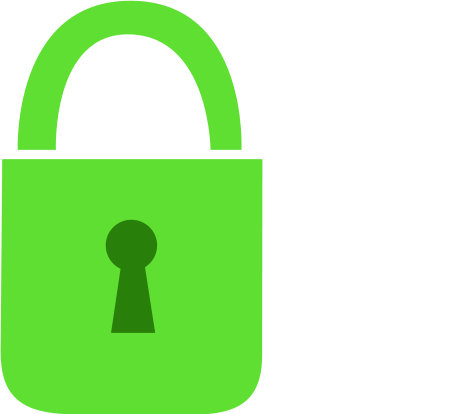
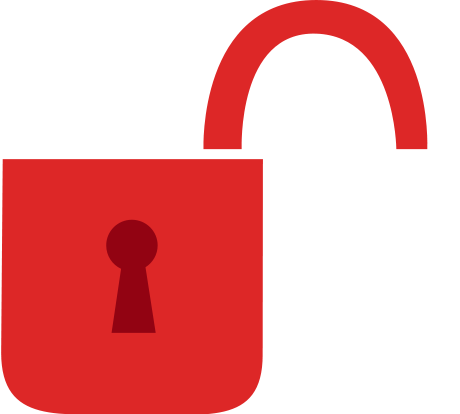
Add backend logic to smart lock

diff --git a/lock/src/main/java/view/StatusView.java b/lock/src/main/java/view/StatusView.java
@@ -3,6 +3,8 @@ package view;
 import model.Lock;
 
 import javax.swing.*;
+import java.awt.event.MouseEvent;
+import java.awt.event.MouseListener;
 import java.beans.PropertyChangeEvent;
 import java.beans.PropertyChangeListener;
 import java.net.URL;
@@ -31,31 +33,51 @@ public class StatusView extends JFrame implements PropertyChangeListener {
     }
 
     private void buildGUI() {
+        label = new JLabel();
+
         createLabel();
+
+        label.addMouseListener(new MouseListener() {
+            @Override
+            public void mouseClicked(MouseEvent e) {
+                lock.toggle();
+            }
+
+            @Override
+            public void mousePressed(MouseEvent e) { }
+
+            @Override
+            public void mouseReleased(MouseEvent e) { }
+
+            @Override
+            public void mouseEntered(MouseEvent e) { }
+
+            @Override
+            public void mouseExited(MouseEvent e) { }
+        });
+
+        add(label);
         pack();
     }
 
     private void update() {
-        remove(label);
         createLabel();
     }
 
     private void createLabel() {
         if (lock.isLocked()) {
             if (lockedImage != null) {
-                label = new JLabel(new ImageIcon(lockedImage));
+                label.setIcon(new ImageIcon(lockedImage));
             } else {
-                label = new JLabel("Locked");
+                label.setText("Locked");
             }
         } else {
             if (unlockedImage != null) {
-                label = new JLabel(new ImageIcon(unlockedImage));
+                label.setIcon(new ImageIcon(unlockedImage));
             } else {
-                label = new JLabel("Unlocked");
+                label.setText("Unlocked");
             }
         }
-
-        add(label);
     }
 
     @Override

diff --git a/lock/src/main/java/lock/LockApplication.java b/lock/src/main/java/lock/LockApplication.java
@@ -1,11 +1,18 @@
 package lock;
 
 import model.Lock;
+import tcp.Server;
 import view.StatusView;
+
+import java.io.IOException;
+import java.net.Socket;
+import java.net.UnknownHostException;
 
 public class LockApplication {
 
-    public final int PORT = 9090;
+    public static final int PORT = 9090;
+
+    private static Server server;
 
     private static Lock lock;
     private static StatusView view;
@@ -13,5 +20,27 @@ public class LockApplication {
     public static void main(String args[]) throws Exception {
         lock = new Lock();
         view = new StatusView(lock);
+
+        server = new Server(PORT);
+
+        System.out.println("Smart lock control started.");
+
+        String ip;
+        try {
+            ip = Server.findMachinesLocalIP().toString();
+            System.out.println("Smart lock listening on: " + ip + ":9090");
+        } catch (UnknownHostException e) {
+            e.printStackTrace();
+        }
+
+        while (true) {
+            try {
+                Socket clientSocket = server.waitForConnection();
+                new LockHandler(clientSocket, lock).start();
+            } catch (IOException e) {
+                System.err.println("Cannot connect to client.");
+                e.printStackTrace();
+            }
+        }
     }
 }

diff --git a/lock/src/main/java/model/Lock.java b/lock/src/main/java/model/Lock.java
@@ -26,7 +26,18 @@ public class Lock {
     }
 
     public void setLocked(boolean locked) {
-        changes.firePropertyChange("locked", this.locked, locked);
         this.locked = locked;
+
+        if (locked) {
+            System.out.println("The door has been locked.");
+        } else {
+            System.out.println("The door has been unlocked.");
+        }
+
+        changes.firePropertyChange("locked", null, locked);
+    }
+
+    public void toggle() {
+        setLocked(!locked);
     }
 }

diff --git a/hub/src/main/java/hub/RestHandler.java b/hub/src/main/java/hub/RestHandler.java
@@ -41,7 +41,8 @@ public class RestHandler {
             // TODO: Call open lock method
             try {
                 LocalDateTime time = getTimeStamp(json);
-                //hub.openLock(time,ip);
+                hub.openLock(time);
+                System.out.println("Someone unlocked the door: " + ip + " " + time);
                 return new ResponseEntity<>("You unlocked the door.", HttpStatus.OK);
             } catch (IOException e) {
                 e.printStackTrace();

diff --git a/lock/src/main/java/lock/LockHandler.java b/lock/src/main/java/lock/LockHandler.java
@@ -1,0 +1,24 @@
+package lock;
+
+import message.Message;
+import model.Lock;
+import tcp.ConnectionHandler;
+
+import java.net.Socket;
+
+public class LockHandler extends ConnectionHandler {
+
+    private Lock lock;
+
+    public LockHandler(Socket socket, Lock lock) {
+        super(socket);
+        this.lock = lock;
+    }
+
+    @Override
+    protected void handle(Message message) {
+        lock.setLocked(false);
+        close();
+        currentThread().interrupt();
+    }
+}

diff --git a/hub/src/main/java/hub/Hub.java b/hub/src/main/java/hub/Hub.java
@@ -190,4 +190,11 @@ public class Hub extends JFrame {
                     setStatus(Status.HANDLED_EMERGENCY);
                 });
     }
+
+    public boolean openLock(LocalDateTime time) {
+        Message message = new Message();
+        new ClientHandler("localhost", 9090, message).start();
+
+        return true;
+    }
 }
